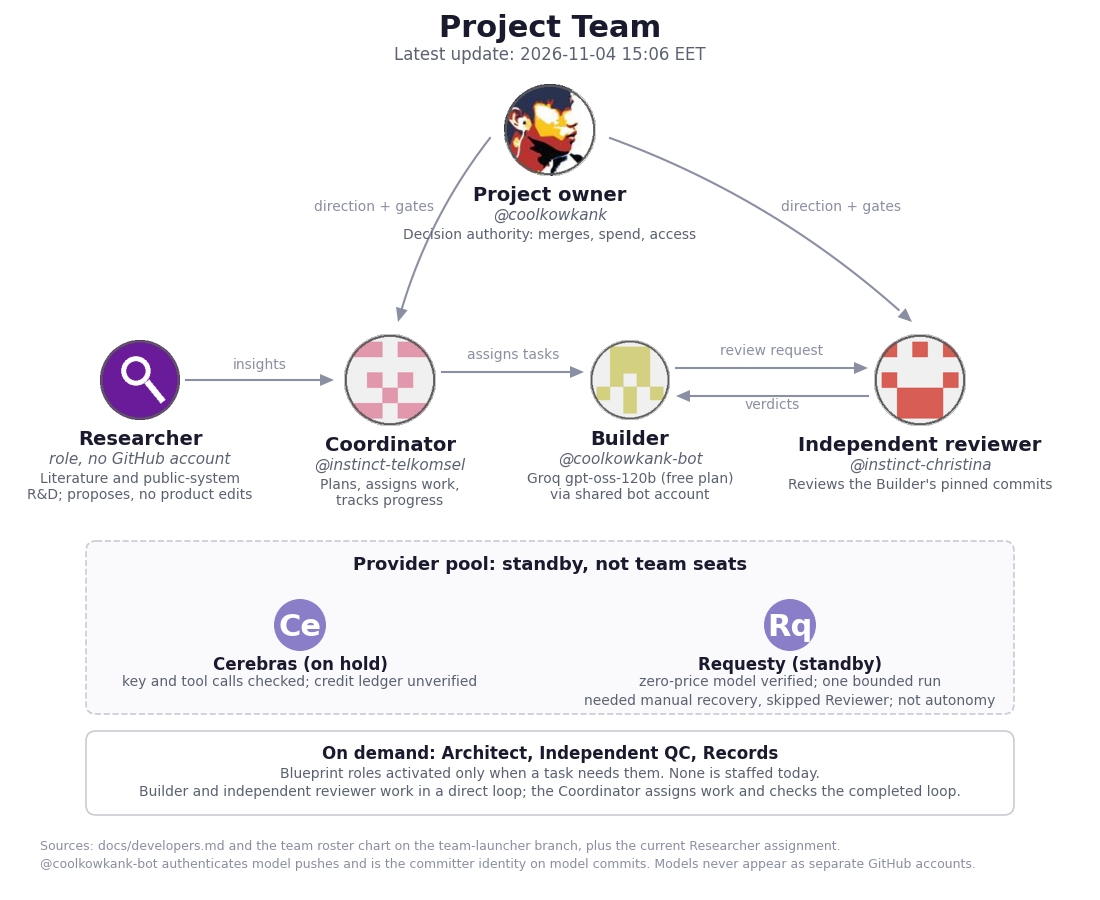
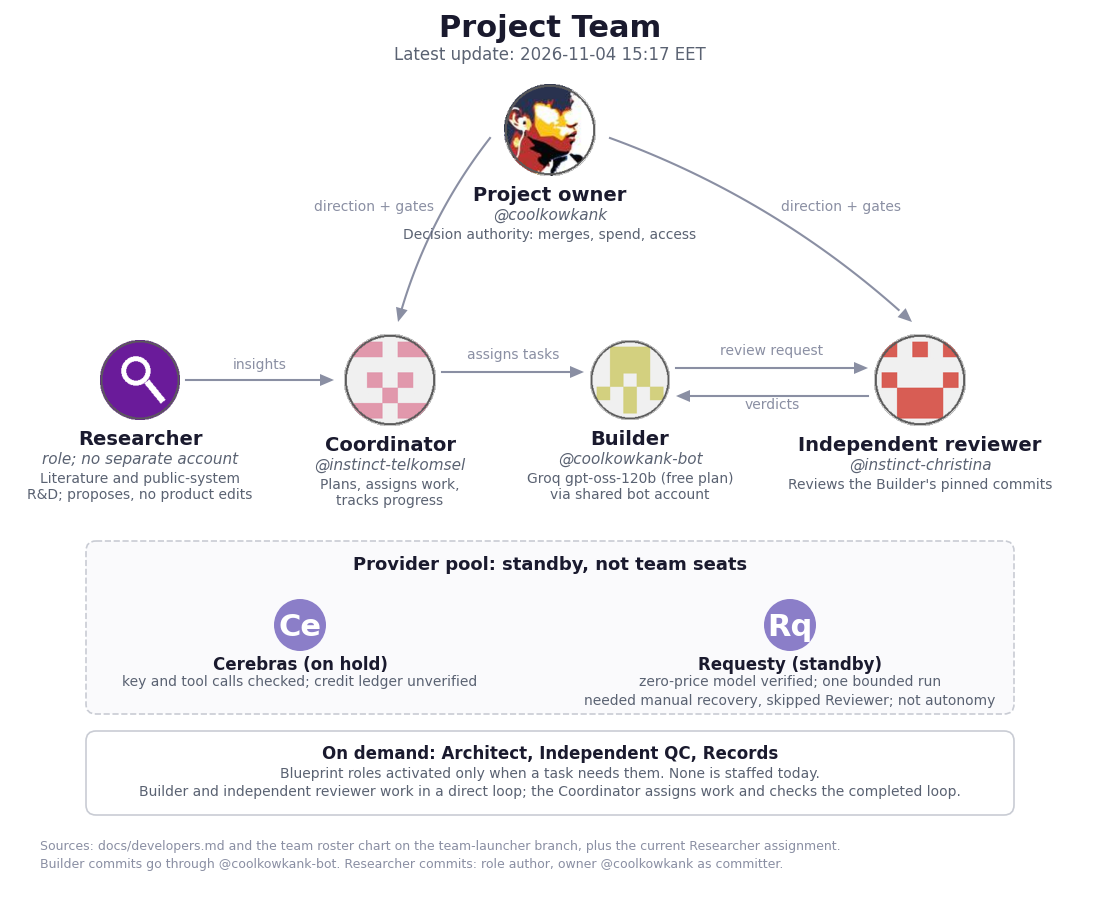
README progress: 15:17 update - Researcher publishing identity (role author, owner committer), WP8a evidence pins; no credit change (47.5%)

diff --git a/docs/progress/team_chart.py b/docs/progress/team_chart.py
@@ -46,7 +46,7 @@ def render(here, updated):
     labels(COR,"Coordinator","@instinct-telkomsel","Plans, assigns work,","tracks progress")
     labels(BLD,"Builder","@coolkowkank-bot","Groq gpt-oss-120b (free plan)","via shared bot account")
     labels(REV,"Independent reviewer","@instinct-christina","Reviews the Builder's pinned commits")
-    labels(RES,"Researcher","role, no GitHub account","Literature and public-system","R&D; proposes, no product edits")
+    labels(RES,"Researcher","role; no separate account","Literature and public-system","R&D; proposes, no product edits")
     arrow((OWN[0]-60,OWN[1]+8),(COR[0]+8,COR[1]-58),"direction + gates",-70,-30,0.1)
     arrow((OWN[0]+60,OWN[1]+8),(REV[0]-8,REV[1]-58),"direction + gates",80,-30,-0.1)
     arrow((COR[0]+52,COR[1]-8),(BLD[0]-46,BLD[1]-8),"assigns tasks",0,-24)
@@ -66,5 +66,5 @@ def render(here, updated):
     text(W/2,767,"Blueprint roles activated only when a task needs them. None is staffed today.",10)
     text(W/2,785,"Builder and independent reviewer work in a direct loop; the Coordinator assigns work and checks the completed loop.",10)
     text(40,840,"Sources: docs/developers.md and the team roster chart on the team-launcher branch, plus the current Researcher assignment.",9,"#8a8fa3",ha="left")
-    text(40,858,"@coolkowkank-bot authenticates model pushes and is the committer identity on model commits. Models never appear as separate GitHub accounts.",9,"#8a8fa3",ha="left")
+    text(40,858,"Builder commits go through @coolkowkank-bot. Researcher commits: role author, owner @coolkowkank as committer.",9,"#8a8fa3",ha="left")
     fig.savefig(os.path.join(here, "team.png")); plt.close(fig)

diff --git a/README.md b/README.md
@@ -2,19 +2,19 @@
 
 ## Project Team
 
-*Latest update: 2026-11-04 15:06 EET.*
+*Latest update: 2026-11-04 15:17 EET.*
 
 ![Project Team](https://github.com/coolkowkank/Multiple-Human-Concept-Owner/raw/fb34fc9f630f1128b51669cb888d1af0426a859c/docs/progress/team.png)
 
 ### Project progress
 
-*As of 2026-11-04 15:06 EET. Weighted milestone progress is **47.5%**, including 50% credit for partial work. This is not independently verified completion. No autonomous end-to-end run has passed yet.*
+*As of 2026-11-04 15:17 EET. Weighted milestone progress is **47.5%**, including 50% credit for partial work. This is not independently verified completion. No autonomous end-to-end run has passed yet.*
 
 ![Gantt chart](https://github.com/coolkowkank/Multiple-Human-Concept-Owner/raw/fb34fc9f630f1128b51669cb888d1af0426a859c/docs/progress/gantt.png)
 
 ![Progress S-curve](https://github.com/coolkowkank/Multiple-Human-Concept-Owner/raw/fb34fc9f630f1128b51669cb888d1af0426a859c/docs/progress/s-curve.png)
 
-The large icon on each Gantt row is the accountable current owner (a role assignment, not authorship). Small icons are contributors. A legend under the chart gives names and roles. The Researcher has no GitHub account, so it uses a role icon.
+The large icon on each Gantt row is the accountable current owner (a role assignment, not authorship). Small icons are contributors. A legend under the chart gives names and roles. The Researcher has no separate GitHub account (it publishes as role author through the owner's authenticated account), so it uses a role icon.
 
 Only milestones backed by passing tests or an independent review count. The dashed lines are tentative estimates, not commitments or predictions of clock times. The pink baseline was frozen at 14:40 on 2026-11-04 and is never edited, so slips against it stay visible. No plan existed before that. See [how progress is measured](docs/progress/README.md).
 

diff --git a/docs/progress/README.md b/docs/progress/README.md
@@ -30,7 +30,7 @@ No plan or schedule existed before 2026-11-04 14:40 EET, so there is no planned-
 
 ## Owners (PIC)
 
-The large icon is the accountable current owner by role assignment, not by who authored commits. Small icons are contributors. The shared bot account is not a unique model identity, and the Researcher has no GitHub account, so it uses a role icon.
+The large icon is the accountable current owner by role assignment, not by who authored commits. Small icons are contributors. The shared bot account is not a unique model identity, and the Researcher has no separate GitHub account, so it uses a role icon. Since 15:10 it publishes through the owner's dedicated token with the Researcher role as commit author and the owner as committer. That is a publishing route, not a new identity, and earns no product credit.
 
 ## Publishing the images
 
